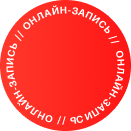
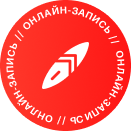
Полностью готовая первая секция

Changed region(s): [[0.3053, 0.3053, 0.7023, 0.7023]]

diff --git a/index.css b/index.css
@@ -141,6 +141,7 @@
     display: flex;
     flex-direction: column;
     justify-content: space-between; 
+    overflow: hidden;
   }
   
   .header {
@@ -156,6 +157,7 @@
     box-shadow: 0px 4px 8px rgba(0, 0, 0, 0.1); 
     padding: 0 20px;
   }
+
   
   .header-container {
     width: 1336px;
@@ -186,15 +188,15 @@
   }
 
   .nav-item a {
-    text-decoration: none; /* Убираем подчёркивание */
-    color: inherit; /* Унаследовать цвет текста */
+    text-decoration: none;
+    color: inherit;
     font-size: 16px;
     font-family: 'Forma DJR Cyrillic Deck', sans-serif;
     transition: color 0.3s ease;
   }
   
   .nav-item a:hover {
-    color: #FFA500; /* Цвет при наведении */
+    color: #FFA500;
   }
   
   .nav-image {
@@ -235,6 +237,7 @@
   .main-section {
     width: 1340px;
     height: 394px;
+    margin-top: -100px;
     position: absolute;
     top: 214px;
     left: 290px;
@@ -276,6 +279,36 @@
     line-height: 1.6;
     margin-top: 20px;
   }
+
+  .features-container {
+    display: flex;
+    justify-content: space-between;
+    align-items: center;
+    gap: 20px; /* Расстояние между элементами */
+    margin: 0 auto;
+    max-width: 1200px; /* Ограничение ширины контейнера */
+    padding: 20px;
+    box-sizing: border-box;
+}
+
+.feature {
+    flex: 1; /* Все элементы занимают равное пространство */
+    max-width: 200px; /* Уменьшение размеров */
+    text-align: center;
+}
+
+.feature-image {
+    width: 100%; /* Уменьшение размера изображения в пределах контейнера */
+    height: auto;
+    border-radius: 30px; /* Если нужно округление углов */
+    box-shadow: 0px 4px 10px rgba(0, 0, 0, 0.2); /* Тень */
+    transition: transform 0.3s ease, box-shadow 0.3s ease;
+}
+
+.feature-image:hover {
+    transform: scale(1.05); /* Увеличение при наведении */
+    box-shadow: 0px 8px 20px rgba(0, 0, 0, 0.3);
+}
 
   .footer {
     background-color: #f8f8f8;
@@ -395,4 +428,6 @@
   .back-to-top img:hover {
     transform: scale(1.1);
   }
+
+
 

diff --git a/index.html b/index.html
@@ -51,6 +51,20 @@
               для всех уровней навыков и возрастов.
             </p>
           </div>
+          <div class="features-container">
+            <div class="feature">
+                <img src="image/el1.png" alt="Feature 1" class="feature-image">
+            </div>
+            <div class="feature">
+                <img src="image/el2.png" alt="Feature 2" class="feature-image">
+            </div>
+            <div class="feature">
+                <img src="image/el3.png" alt="Feature 3" class="feature-image">
+            </div>
+            <div class="feature">
+                <img src="image/el4.png" alt="Feature 4" class="feature-image">
+            </div>
+        </div>
 
       </div>
 
